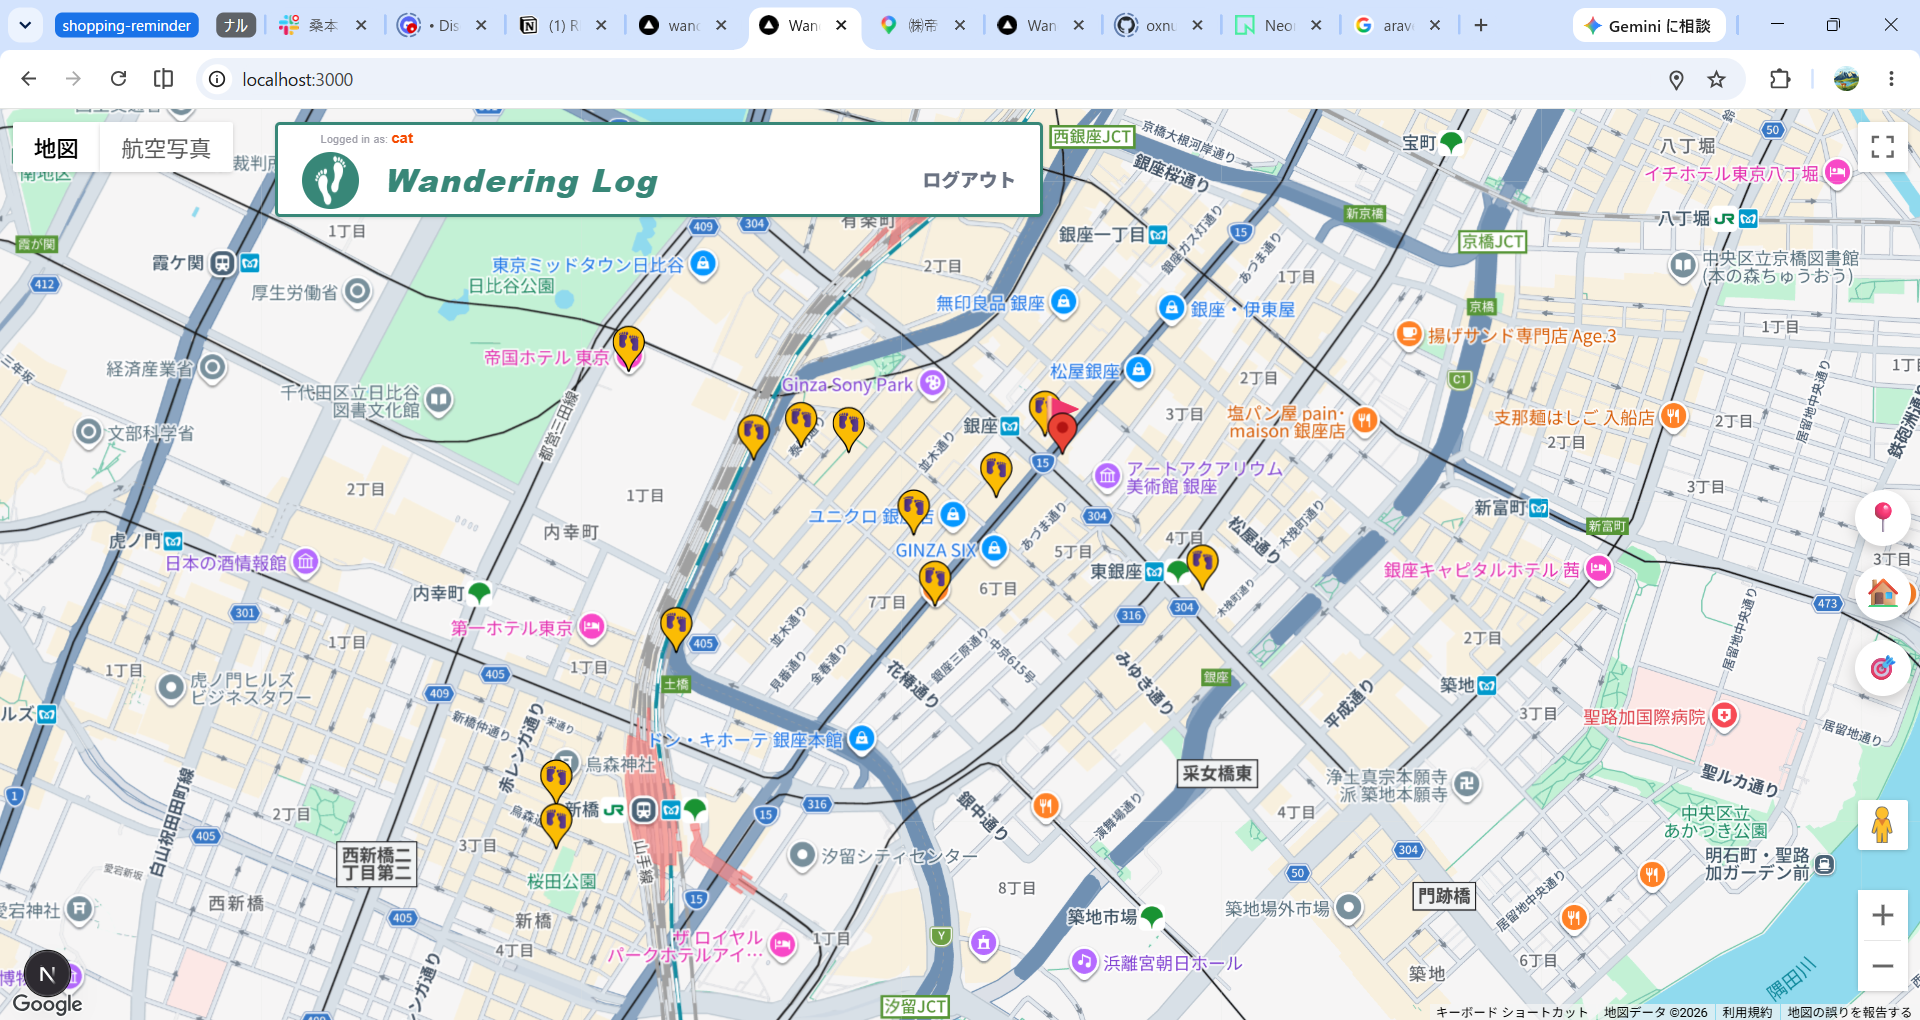
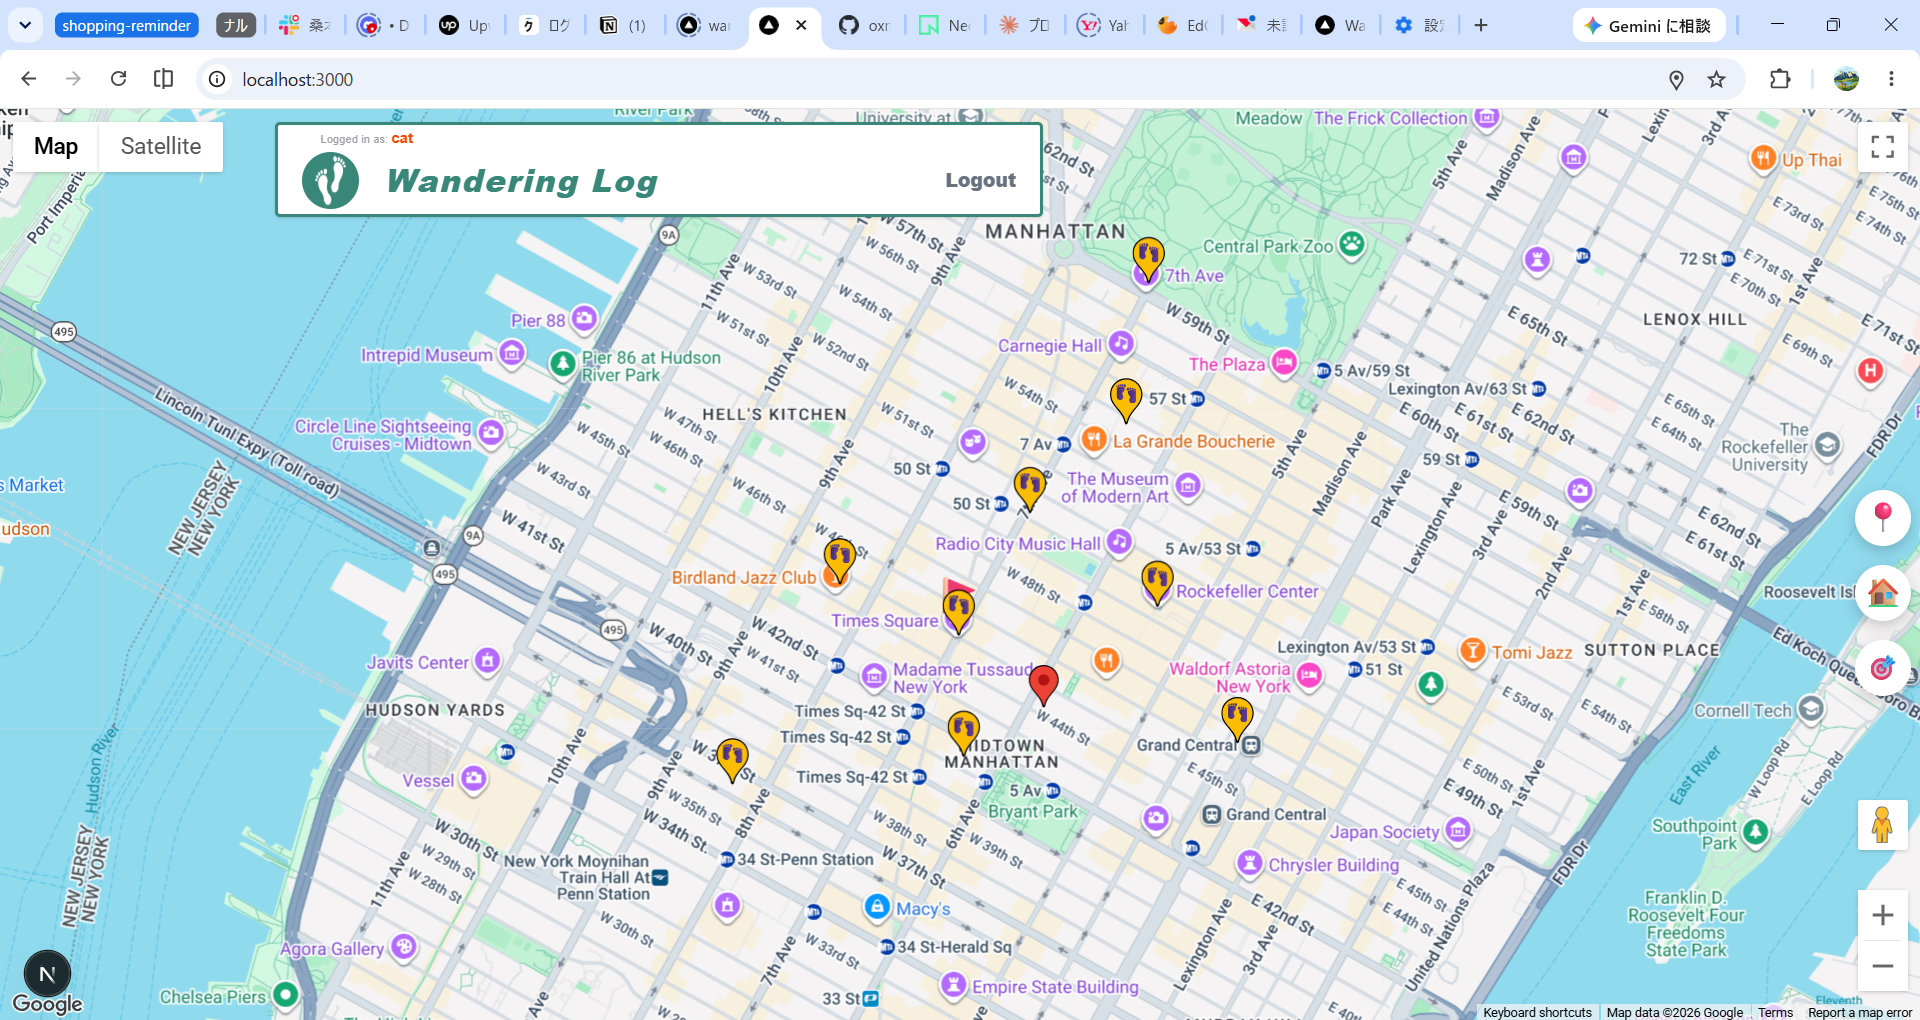
Update README

diff --git a/README/README English version 374f155644e78098ad0bd4634bfc0423.md b/README/README English version 374f155644e78098ad0bd4634bfc0423.md
@@ -1,6 +1,4 @@
-# README wandering-log(English）
-
-# README.md
+# README / English version
 
 ## Wandering-Log
 
@@ -13,6 +11,11 @@ This app was developed to record visited locations regardless of region or categ
 Special attention was given to the behavior of markers and modals on the map to ensure a smooth user experience. The current version covers basic recording and viewing functionality, with plans to add search and list display features in the future.
 
 Deploy URL: [https://wandering-log.vercel.app](https://wandering-log.vercel.app/)
+
+- In this demo version, the default home location is set to Times Square in NY. In the production version, it will automatically use the user's current location.
+- You can try the demo using the following credentials:
+Email: [demo@example.com](mailto:demo@example.com)
+Password: demo1234
 
 【Register a new location on mobile】
 
@@ -255,7 +258,7 @@ bash
 
 `npx drizzle-kit push`
 
-/lib/schema.ts（参考）
+/lib/schema.ts
 
 ```tsx
 import { pgTable, serial, text, timestamp, integer, numeric } from "drizzle-orm/pg-core";
